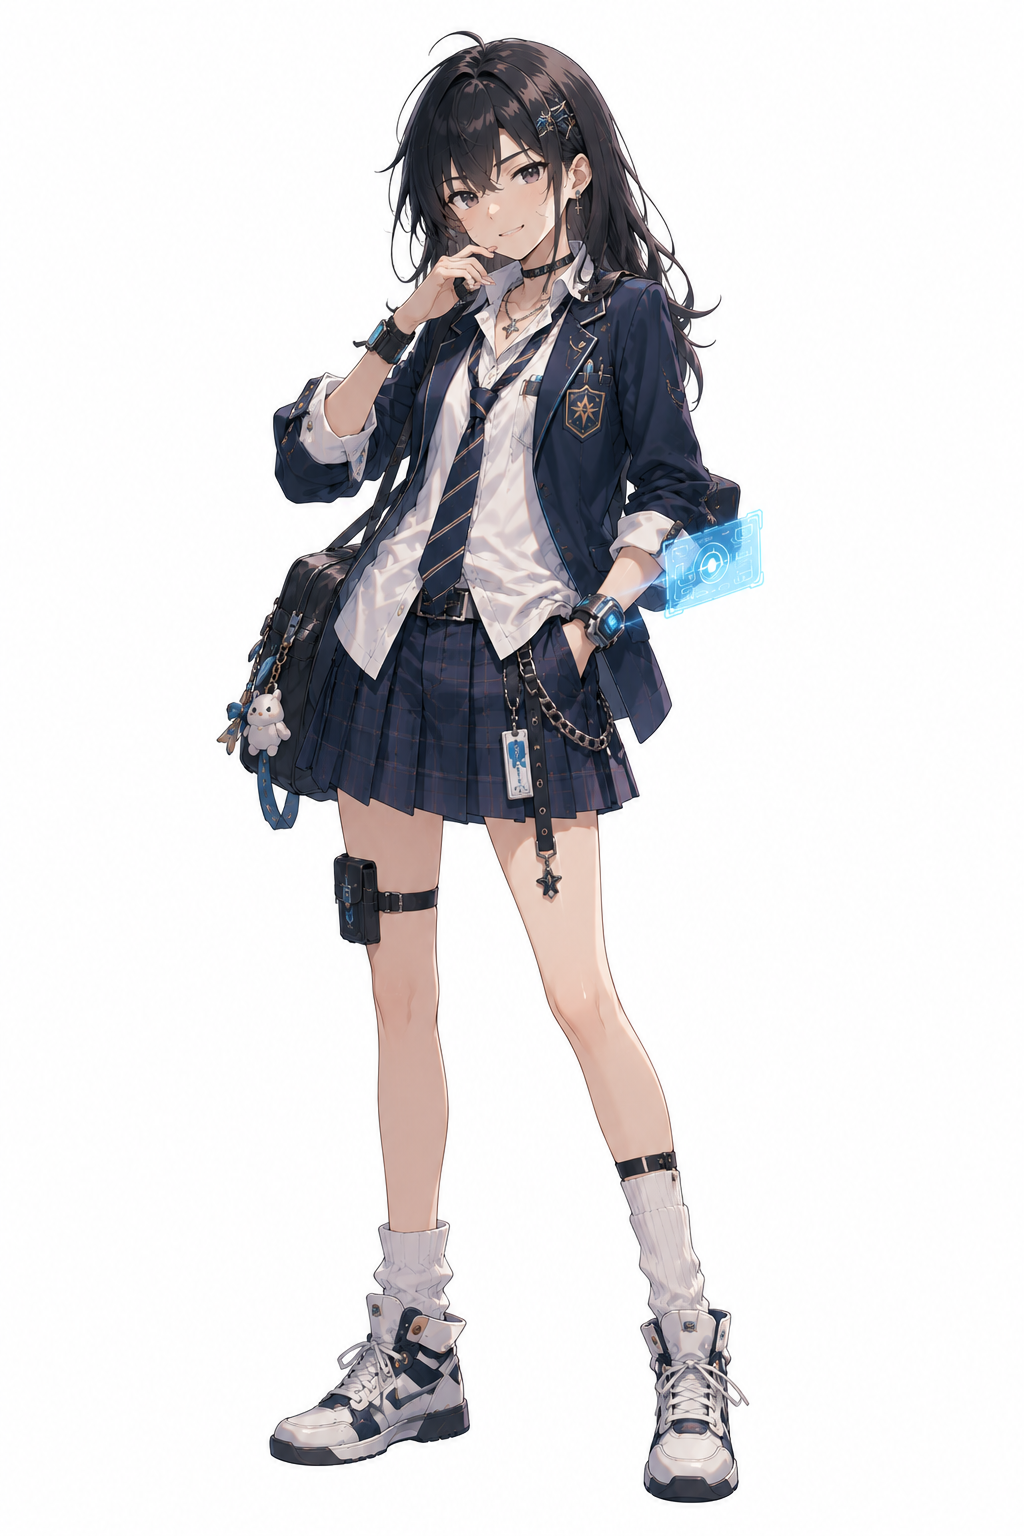
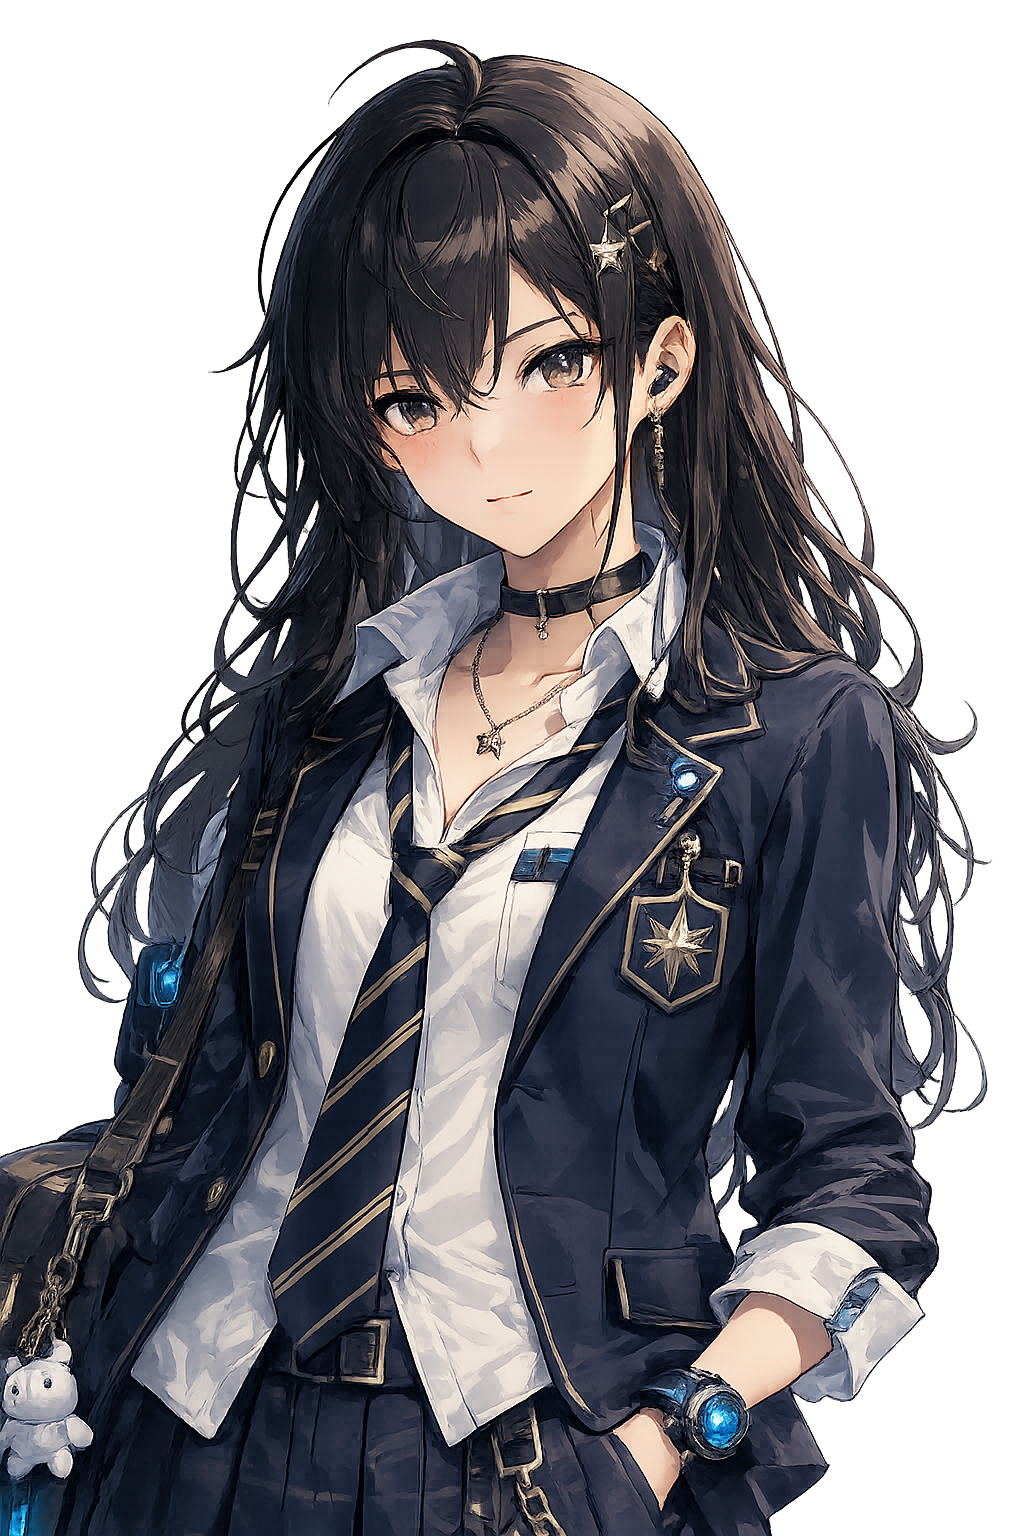
Refactor code structure for improved readability and maintainability

diff --git a/style.css b/style.css
@@ -162,6 +162,80 @@ body {
     }
 }
 
+/* --- Star Dust Layer --- */
+
+.star-dust-layer {
+    position: fixed;
+    inset: 0;
+    z-index: 1;
+    pointer-events: none;
+    overflow: hidden;
+}
+
+.star-dust {
+    position: absolute;
+    background: white;
+    border-radius: 50%;
+    animation: flyStarDust var(--duration) linear infinite;
+    animation-delay: var(--delay);
+    opacity: 0;
+}
+
+@keyframes flyStarDust {
+    0% {
+        transform: translate(0, 0) scale(0.5);
+        opacity: 0;
+    }
+    10% {
+        opacity: 0.8;
+    }
+    90% {
+        opacity: 0.6;
+    }
+    100% {
+        transform: translate(var(--move-x), var(--move-y)) scale(1.2);
+        opacity: 0;
+    }
+}
+
+
+/* --- Flying Stars Layer (z-index: 2) --- */
+
+.flying-stars-layer {
+    position: fixed;
+    inset: 0;
+    z-index: 2;
+    pointer-events: none;
+    overflow: hidden;
+}
+
+.flying-star {
+    position: absolute;
+    background: #ffffff;
+    border-radius: 50%;
+    box-shadow: 0 0 6px rgba(76, 200, 255, 0.8);
+    animation: flyAcross var(--duration) linear infinite;
+    animation-delay: var(--delay);
+    opacity: 0;
+}
+
+@keyframes flyAcross {
+    0% {
+        transform: translate(0, 0) scale(0.6);
+        opacity: 0;
+    }
+    10% {
+        opacity: 1;
+    }
+    90% {
+        opacity: 0.8;
+    }
+    100% {
+        transform: translate(var(--move-x), var(--move-y)) scale(1.2);
+        opacity: 0;
+    }
+}
+
 
 /* --- Menu Container --- */
 

diff --git a/chap_1/chap1.html b/chap_1/chap1.html
@@ -18,132 +18,81 @@
     ========================== -->
 
         <aside class="nav-panel">
-
             <button id="closeBtn" class="nav-btn" title="Close">
             ✕
         </button>
-
             <button id="saveBtn" class="nav-btn" title="Save">
             💾
         </button>
-
             <button id="homeBtn" class="nav-btn" title="Home">
             🏠
         </button>
-
         </aside>
-
 
         <!-- =========================
          Main Area
     ========================== -->
-
         <main class="main-content">
 
             <!-- Coin -->
-
             <div class="coin-display">
-
                 <img src="../img/ui/coin.png" class="coin-icon" alt="Coin">
-
                 <span id="coinValue">100</span>
-
             </div>
-
 
             <!-- =====================
              Story Scene
         ====================== -->
 
             <section class="story-scene">
-
                 <!-- Background -->
-
                 <div class="background-layer">
-
                     <img id="storyBackground" class="story-background" src="" alt="Background">
-
                 </div>
 
-
                 <!-- Overlay -->
-
                 <div id="sceneOverlay" class="scene-overlay">
                 </div>
 
-
                 <!-- Characters -->
-
                 <div id="characterLayer" class="character-layer">
-
                     <!-- JS injects characters here -->
-
                 </div>
-
             </section>
-
 
             <!-- =====================
              Dialogue
         ====================== -->
-
             <section class="dialogue-container">
-
                 <div id="dialogueBox" class="dialogue-box speech">
 
                     <!-- Portrait -->
-
                     <div class="portrait-container">
-
                         <img id="speakerPortrait" class="speaker-portrait" src="" alt="Portrait">
-
                     </div>
-
 
                     <!-- Text -->
-
                     <div class="dialogue-content">
-
                         <div id="speakerName" class="speaker-name">
-
-                            Father
-
+                            Người nói
                         </div>
-
                         <div id="dialogueText" class="dialogue-text">
-
-                            Dialogue goes here...
-
+                            Đoạn hội thoại sẽ được hiển thị ở đây. Nội dung sẽ thay đổi dựa trên các sự kiện trong trò chơi.
                         </div>
-
                     </div>
-
                 </div>
-
 
                 <!-- Controls -->
-
                 <div class="dialogue-controls">
-
                     <button id="previousBtn" class="dialogue-btn">
-
                     ← Quay lại
-
                 </button>
-
-
                     <button id="nextBtn" class="dialogue-btn">
-
                     Tiếp tục →
-
                 </button>
-
                 </div>
-
             </section>
-
         </main>
-
     </div>
 
 

diff --git a/script.js b/script.js
@@ -5,6 +5,7 @@
 document.addEventListener('DOMContentLoaded', () => {
   initStars();
   initParticles();
+  initFlyingStars();
   initButtons();
 });
 
@@ -64,6 +65,37 @@ function initParticles() {
     particle.style.setProperty('--move-y', `${moveY}px`);
 
     container.appendChild(particle);
+  }
+}
+
+function initFlyingStars() {
+  const container = document.getElementById('flyingStars');
+  if (!container) return;
+
+  const flyingCount = 25;
+
+  for (let i = 0; i < flyingCount; i++) {
+    const star = document.createElement('div');
+    star.classList.add('flying-star');
+
+    const size = Math.random() * 3 + 2;
+    const startX = Math.random() * 100;
+    const startY = Math.random() * 100;
+    const duration = Math.random() * 8 + 6;
+    const delay = Math.random() * 10;
+    const moveX = (Math.random() - 0.5) * 120;
+    const moveY = (Math.random() - 0.5) * 120;
+
+    star.style.width = `${size}px`;
+    star.style.height = `${size}px`;
+    star.style.left = `${startX}%`;
+    star.style.top = `${startY}%`;
+    star.style.setProperty('--duration', `${duration}s`);
+    star.style.setProperty('--delay', `${delay}s`);
+    star.style.setProperty('--move-x', `${moveX}px`);
+    star.style.setProperty('--move-y', `${moveY}px`);
+
+    container.appendChild(star);
   }
 }
 

diff --git a/chap_1/chap1_script.js b/chap_1/chap1_script.js
@@ -24,9 +24,9 @@ const chapter1 = [{
 
         type: "thought",
 
-        speaker: "Alex",
+        speaker: "Main",
 
-        text: "Why are the lights off?"
+        text: "Thật chán quá đi, mình muốn về nhà ngay bây giờ!"
     },
 
     {
@@ -46,8 +46,13 @@ const chapter1 = [{
 
         type: "speech",
 
-        speaker: "Father",
+        speaker: "Thầy John",
 
-        text: "Don't let them finish my research!"
+        text: "Em lại bị điểm kém môn Toán rồi à? Học hành thế này thì làm sao mà thi đỗ được!"
     }
 ];
+
+const speakerPortraits = {
+    "Main": "img/character/portrait_male_character.png",
+    "Thầy John": "img/character/portrait_teacher.png"
+};

diff --git a/chap_1/chap1.js b/chap_1/chap1.js
@@ -77,11 +77,10 @@ function renderDialogue(index) {
   // Update portrait (hide for narration)
   if (data.type === 'narration' || !data.speaker) {
     speakerPortrait.style.display = 'none';
-  } else {
-    speakerPortrait.style.display = 'block';
-    // Portrait could be linked to character images here
-    speakerPortrait.src = '';
-  }
+    } else {
+        speakerPortrait.style.display = 'block';
+        speakerPortrait.src = (typeof speakerPortraits !== 'undefined' && speakerPortraits[data.speaker]) ? speakerPortraits[data.speaker] : '';
+    }
 
   // Render background with fade
   renderBackground(data.background);

diff --git a/index.html b/index.html
@@ -17,6 +17,12 @@
     <div class="vignette" aria-hidden="true"></div>
   </div>
 
+  <!-- Star Dust Layer -->
+  <div class="star-dust-layer" id="starDustLayer" aria-hidden="true"></div>
+
+  <!-- Flying Stars Layer -->
+  <div class="flying-stars-layer" id="flyingStars" aria-hidden="true"></div>
+
   <!-- Main Menu -->
   <main class="menu-container">
     <nav class="menu-buttons" aria-label="Main menu">